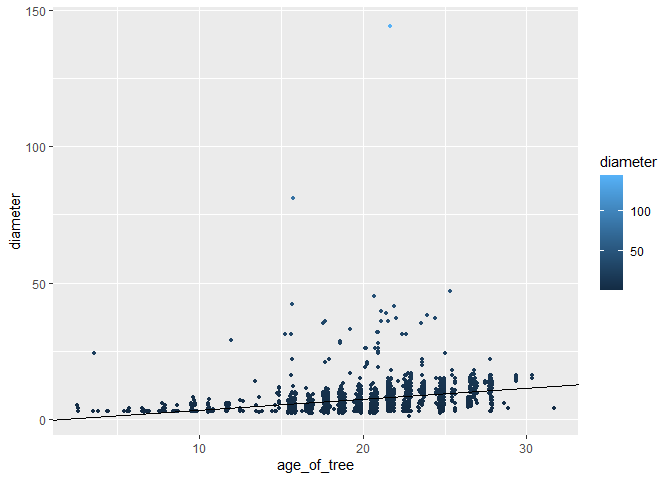
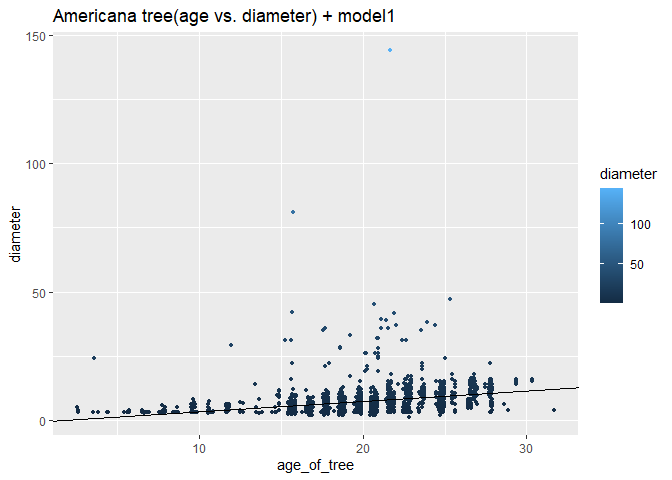
update milestone3

diff --git a/Mini_Data_Analysis 3/Mini-Data-Analysis-3.md b/Mini_Data_Analysis 3/Mini-Data-Analysis-3.md
@@ -253,7 +253,8 @@ the accuracy of our model. So next, I am going to remove the outliers.
 Americana_tree %>%
   ggplot(aes(age_of_tree, diameter)) +
   geom_point(aes(colour=diameter),size=1) +
-  geom_abline(slope=0.4027,intercept=-0.7912)
+  geom_abline(slope=0.4027,intercept=-0.7912)+
+  labs(title="Americana tree(age vs. diameter) + model1")
 ```
 
 ![](Mini-Data-Analysis-3_files/figure-gfm/unnamed-chunk-6-1.png)<!-- -->
@@ -286,7 +287,8 @@ Below is the graph of the data and model2:
 Americana_tree_2 %>%
   ggplot(aes(age_of_tree, diameter)) +
   geom_point(aes(colour=diameter), size=1) +
-  geom_abline(slope=0.3765,intercept=--0.8627)
+  geom_abline(slope=0.3765,intercept=--0.8627)+
+  labs(title="Amricana tree(age vs. diameter) + model2")
 ```
 
 ![](Mini-Data-Analysis-3_files/figure-gfm/unnamed-chunk-8-1.png)<!-- -->
@@ -396,7 +398,7 @@ The last step is to store the data as a csv file and put it in the
 ifelse(!dir.exists(here::here("output")), dir.create(here::here("output")),here::here("output"))
 ```
 
-    ## [1] TRUE
+    ## [1] "C:/Users/Yuwei/Desktop/Mini-Data-Analysis---Yuwei/output"
 
 ``` r
 tree_diameter <- vancouver_trees %>%
@@ -407,6 +409,7 @@ tree_diameter <- vancouver_trees %>%
             diameter_sd=sd(diameter, na.rm=TRUE), number_of_trees=n())
 
 write.csv(tree_diameter, here::here("output", "tree_diameter_data"))
+#read.csv(here::here("output", "tree_diameter_data"))
 ```
 
 ## 3.2 Store model2 as RDS file in ‘output’ file
